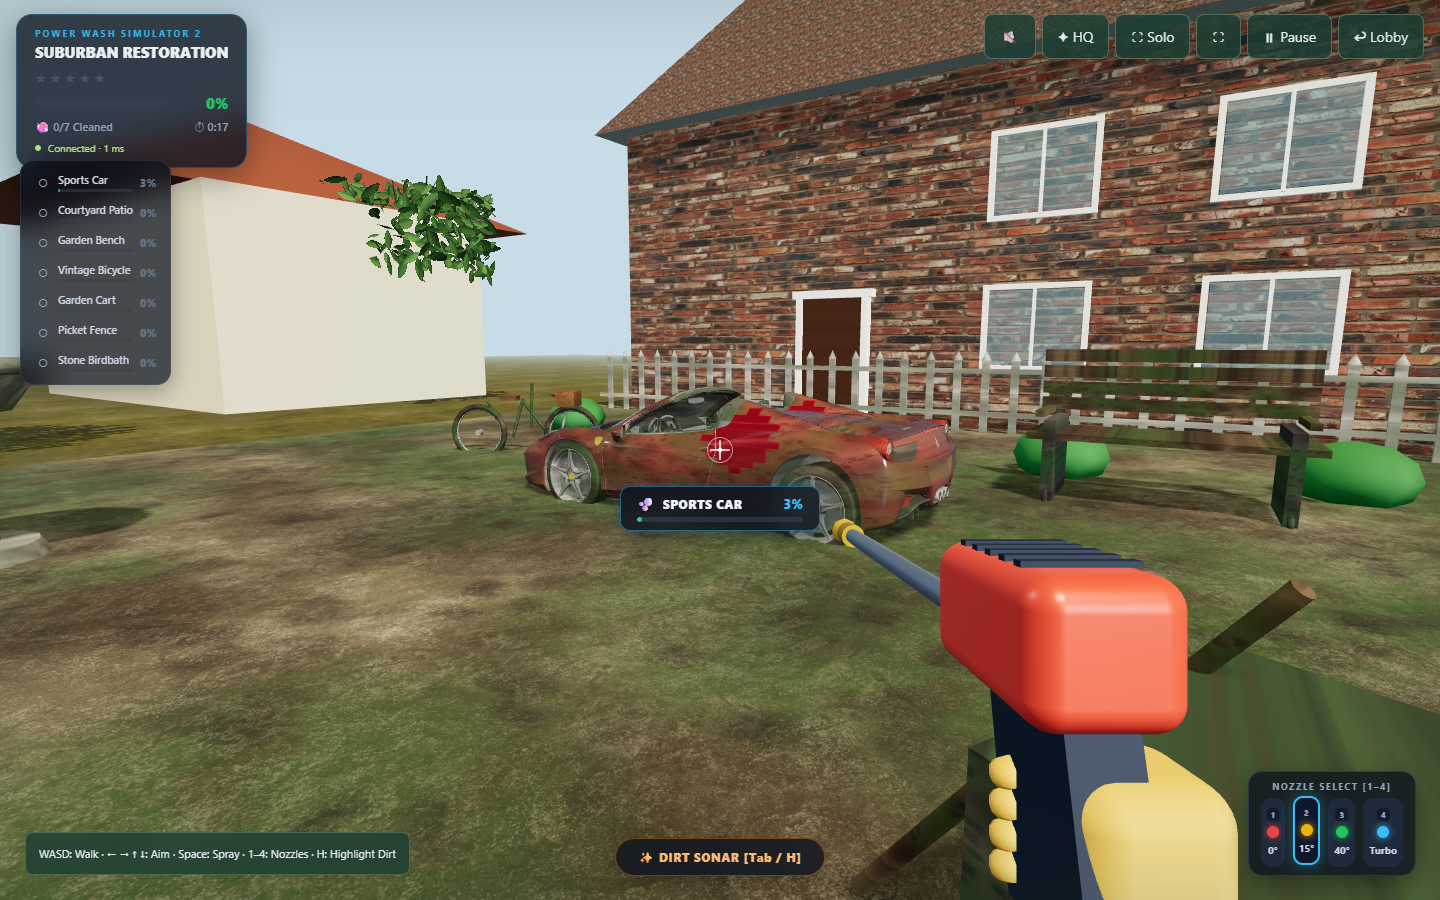
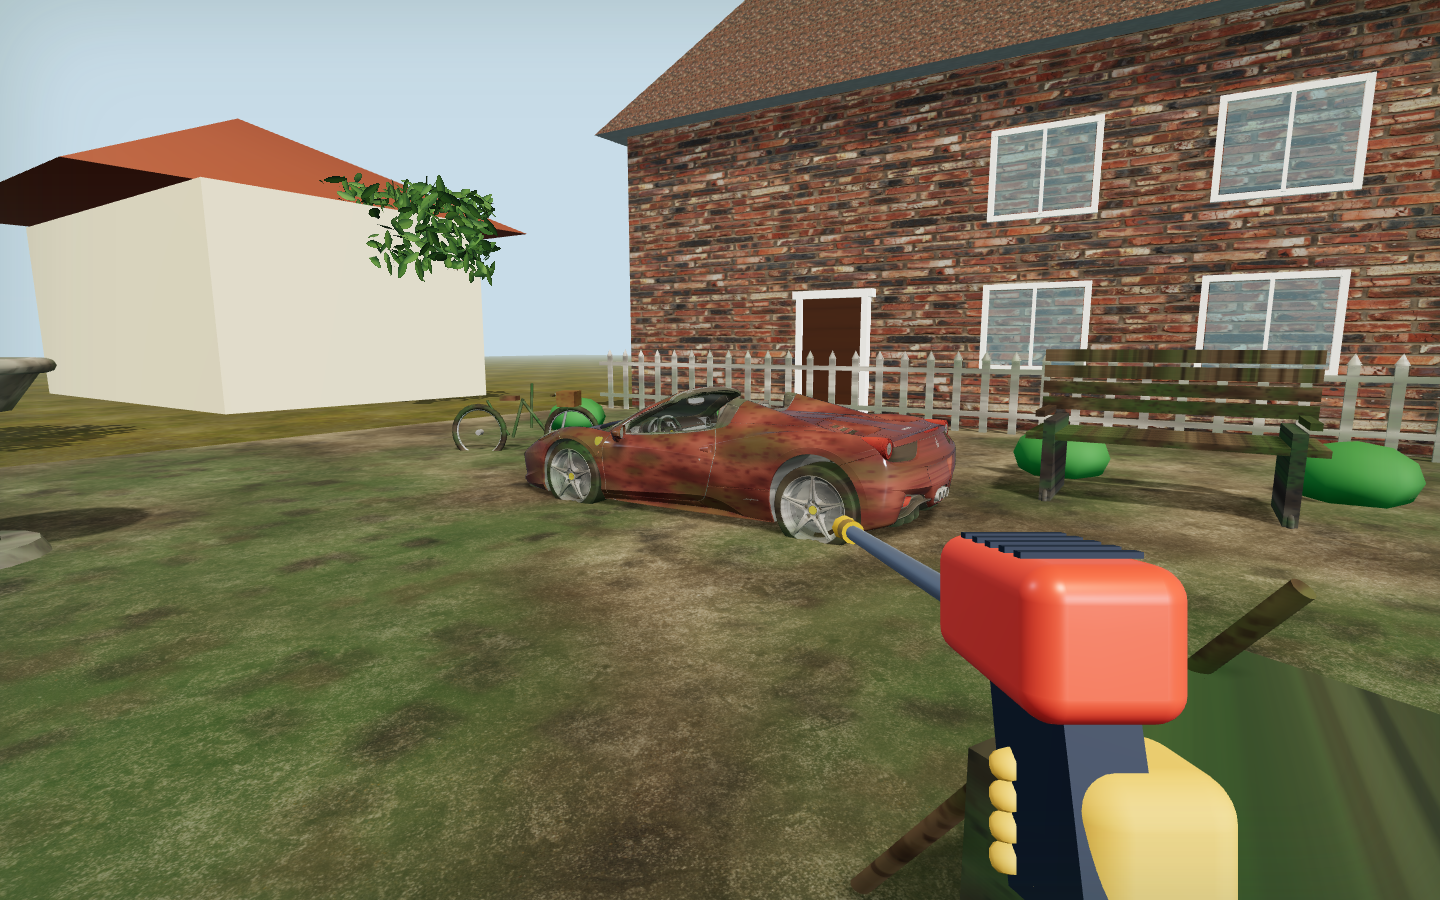
feat: simplify Rushroom home and game HUD

diff --git a/src/client/main.tsx b/src/client/main.tsx
@@ -3,7 +3,6 @@ import React, { useEffect, useRef, useState } from 'react';
 import { createRoot } from 'react-dom/client';
 import QRCode from 'qrcode';
 import { useNetwork } from './network';
-import { HeroKart, HeroWasher } from './visuals';
 import { games } from '../shared/registry';
 import { COLORS, type Input, neutral, type RoomState } from '../shared/types';
 import { ranking, LAPS } from '../shared/simulation';
@@ -18,10 +17,8 @@ import { WashController } from './washController';
 import { KartTouchControls } from './kartTouchControls';
 import './style.css';
 
-const WorldPreview = React.lazy(() => import('./scene').then(m => ({ default: m.WorldPreview })));
 const GameScene = React.lazy(() => import('./scene').then(m => ({ default: m.GameScene })));
 const PowerWashScene = React.lazy(() => import('./washScene').then(m => ({ default: m.PowerWashScene })));
-const PowerWashPreview = React.lazy(() => import('./washScene').then(m => ({ default: m.PowerWashPreview })));
 
 type PlayArrangement = 'this_device' | 'tv_display' | 'phone_controller';
 
@@ -72,6 +69,7 @@ function App() {
   // Split-screen state (Independent per display)
   const [localSplit, setLocalSplit] = useState(initialPage === 'screen');
   const [showSplitMenu, setShowSplitMenu] = useState(false);
+  const [showGameMenu, setShowGameMenu] = useState(false);
   const [requestOtherSplit, setRequestOtherSplit] = useState(false);
   const [activeToast, setActiveToast] = useState<string | null>(null);
   const [targetedObject, setTargetedObject] = useState<{ name: string; percent: number } | null>(null);
@@ -477,16 +475,13 @@ function App() {
         <main className="home">
           <section className="hero">
             <div className="hero-copy">
-              <span className="eyebrow">
-                <i /> BROWSER MULTIPLAYER PLAYGROUND
-              </span>
+              <span className="eyebrow">YOUR FRIENDS. YOUR ROOM.</span>
               <h1>
-                Power Wash.<br />
-                Race. <em>Together.</em>
+                Play together.<br />
+                <em>Anywhere.</em>
               </h1>
               <p>
-                Turn any TV, laptop or phone into a shared arena.<br />
-                Grab your friends. Play in person or from different homes.
+                One phone or a whole living room. Pick a game, share your room code, and bring your friends.
               </p>
 
               <div className="actions">
@@ -498,21 +493,12 @@ function App() {
                 </button>
               </div>
 
-              <div className="hero-meta">
-                <span>◉ Original 3D Environments</span>
-                <span>◎ No App or Account Required</span>
-                <span>⌁ TV + Phone Controllers</span>
-              </div>
+              <p className="hero-note">No downloads. Choose your screen and controls when you join.</p>
             </div>
 
             <div className="hero-art">
-              <span className="art-chip chip-top">NEW 3D CO-OP GAME</span>
-              <React.Suspense fallback={<HeroWasher />}>
-                <PowerWashPreview />
-              </React.Suspense>
-              <span className="art-chip chip-bottom">
-                <b>02</b> POWER WASH SIMULATOR 2 <span>↗</span>
-              </span>
+              <img className="featured-game-image" src="/wash-world.png" alt="Power Wash gameplay in a sunny garden with a sports car" />
+              <div className="featured-game-caption"><span>CO-OP CLEANING</span><b>Power Wash Simulator 2</b></div>
             </div>
           </section>
 
@@ -520,11 +506,10 @@ function App() {
           <section className="library">
             <div className="section-heading">
               <div>
-                <span className="eyebrow">THE ROSTER</span>
-                <h2>Good friends. Great games.</h2>
+                <h2>Pick your next game.</h2>
               </div>
               <button className="text-button" onClick={() => setPage('library')}>
-                Explore the library →
+                All games →
               </button>
             </div>
 
@@ -532,20 +517,14 @@ function App() {
               {/* Game 1: Power Wash Simulator 2 */}
               <article className="game-card">
                 <div className="card-art">
-                  <div className="wash-card-art">
-                    <span className="wash-art-water-jet">💦</span>
-                    <span className="wash-art-clean-tag">100% ORIGINAL ART</span>
-                  </div>
-                  <span className="game-tag" style={{ color: '#38bdf8' }}>
-                    PLAYABLE NOW
-                  </span>
+                  <img className="world-card-art" src="/wash-world.png" alt="Pressure washing a sports car in the garden" loading="lazy" />
                   <span className="players-tag">1–4 players</span>
                 </div>
                 <div className="card-copy">
                   <div>
                     <h3>Power Wash Simulator 2</h3>
                     <p>
-                      Co-op cleaning simulation. Grab your pressure washer and team up to restore a dirty garden courtyard to pristine glory.
+                      Slow down. Spray the dirt away. Clean the garden together.
                     </p>
                   </div>
                   <button
@@ -568,14 +547,13 @@ function App() {
                     src="/sunburst-world.png"
                     alt="Original 3D miniature garden circuit"
                   />
-                  <span className="game-tag">PLAYABLE NOW</span>
                   <span className="players-tag">1–8 players</span>
                 </div>
                 <div className="card-copy">
                   <div>
                     <h3>Kart Rush Arena</h3>
                     <p>
-                      Big corners. Tiny karts. Brilliant chaos. Race your friends around Sunburst Circuit.
+                      Race your friends around the twists of Sunburst Circuit.
                     </p>
                   </div>
                   <button
@@ -594,27 +572,27 @@ function App() {
 
           {/* 3 PLAY ARRANGEMENTS SECTION */}
           <section className="steps">
-            <span className="eyebrow">THE THREE DEVICE ARRANGEMENTS</span>
+            <h2>Your setup. Your choice.</h2>
             <div className="arrangement-grid">
               <div className="arrangement-card">
-                <span className="arrangement-icon">📱</span>
-                <b>Arrangement A — Play on this device</b>
+                <span className="setup-number">01</span>
+                <b>Just your phone or PC</b>
                 <span>
-                  Mobile touch controls or PC keyboard/mouse. Your view and controls live on the same phone, tablet or monitor.
+                  Your game and controls on one device.
                 </span>
               </div>
               <div className="arrangement-card">
-                <span className="arrangement-icon">📺</span>
-                <b>Arrangement B — Shared TV + Phone Controllers</b>
+                <span className="setup-number">02</span>
+                <b>One TV. Everyone plays.</b>
                 <span>
-                  The TV renders 2 to 4 split viewports. Each player scans a QR code and holds their phone as a tactile gamepad.
+                  Share the big screen. Use your phones as controllers.
                 </span>
               </div>
               <div className="arrangement-card">
-                <span className="arrangement-icon">🌐</span>
-                <b>Arrangement C — Different Homes, Flexible Devices</b>
+                <span className="setup-number">03</span>
+                <b>Different homes. Same room.</b>
                 <span>
-                  One friend uses TV + phone at their house, while another joins on mobile from across the city.
+                  Join with a room code. Each person chooses their own view.
                 </span>
               </div>
             </div>
@@ -631,17 +609,14 @@ function App() {
             {games.map(g => (
               <article className="library-entry" key={g.id}>
                 {g.id === 'power-wash' ? (
-                  <div className="wash-card-art" style={{ height: 160, borderRadius: 12 }}>
-                    <span style={{ fontSize: 50 }}>💦</span>
-                  </div>
+                  <img src="/wash-world.png" alt="Power Wash gameplay" />
                 ) : (
                   <img src={g.thumbnail} alt="" />
                 )}
                 <h2>{g.name}</h2>
                 <p>{g.description}</p>
                 <small>
-                  {g.minPlayers}–{g.maxPlayers} players ·{' '}
-                  {g.available ? 'Playable Now' : 'In Development'}
+                  {g.minPlayers}–{g.maxPlayers} players
                 </small>
                 <button
                   className="primary"
@@ -1038,13 +1013,7 @@ function App() {
               {/* Top HUD */}
               <div className="race-top">
                 <div className="wash-title-card">
-                  <span className="eyebrow">POWER WASH SIMULATOR 2</span>
-                  <h2>SUBURBAN RESTORATION</h2>
-                  <div className="job-stars">
-                    {[20, 40, 60, 80, 98].map((t, idx) => (
-                      <span key={idx} className={`star ${(room.wash?.jobPercent || 0) >= t ? 'filled' : ''}`}>★</span>
-                    ))}
-                  </div>
+                  <h2>Garden cleanup</h2>
                   <div className="progress-container">
                     <div className="progress-bar-bg">
                       <div
@@ -1055,21 +1024,13 @@ function App() {
                     <span className="progress-text">{room.wash.jobPercent}%</span>
                   </div>
                   <div className="wash-job-sub">
-                    <span>🧼 {CLEANABLE_OBJECTS.filter(o => room.wash?.objects[o.id]?.completed).length}/{CLEANABLE_OBJECTS.length} Cleaned</span>
-                    <span>⏱ {Math.floor(room.wash.time / 60)}:{String(Math.floor(room.wash.time) % 60).padStart(2, '0')}</span>
+                    <span>{CLEANABLE_OBJECTS.filter(o => room.wash?.objects[o.id]?.completed).length}/{CLEANABLE_OBJECTS.length} objects clean</span>
                   </div>
-                  {statusPill}
                 </div>
 
                 <div className="race-tools">
-                  <button onClick={toggleSound}>
-                    {sound ? '🔊' : '🔇'}
-                  </button>
-                  <button onClick={() => setQuality(quality === 'high' ? 'low' : 'high')}>
-                    {quality === 'high' ? '✦ HQ' : '◇ LQ'}
-                  </button>
-                  <button onClick={() => setShowSplitMenu(!showSplitMenu)}>
-                    ⛶ {localSplit ? 'Split' : 'Solo'}
+                  <button aria-expanded={showSplitMenu} onClick={() => {setShowSplitMenu(!showSplitMenu);setShowGameMenu(false);}}>
+                    Split view
                   </button>
                   <button aria-label="Fullscreen" onClick={fullscreen}>
                     ⛶
@@ -1079,9 +1040,19 @@ function App() {
                       {room.wash.phase === 'paused' ? '▶ Resume' : '⏸ Pause'}
                     </button>
                   )}
-                  {isHost && <button onClick={() => send({ type: 'lobby' })}>↩ Lobby</button>}
+                  <button aria-expanded={showGameMenu} aria-controls="wash-game-menu" onClick={() => {setShowGameMenu(!showGameMenu);setShowSplitMenu(false);}}>Menu</button>
                 </div>
               </div>
+
+              {showGameMenu && <aside className="wash-game-menu" id="wash-game-menu" aria-label="Game menu">
+                <div className="game-menu-heading"><b>Game menu</b><button aria-label="Close game menu" onClick={() => setShowGameMenu(false)}>×</button></div>
+                <button onClick={toggleSound}>Sound <b>{sound ? 'On' : 'Off'}</b></button>
+                <button onClick={() => setQuality(quality === 'high' ? 'low' : 'high')}>Graphics <b>{quality === 'high' ? 'High' : 'Low'}</b></button>
+                <small>{status}{status === 'Connected' ? ` · ${latency} ms` : ''}</small>
+                <details><summary>Objects to clean</summary><div className="menu-object-list">{CLEANABLE_OBJECTS.map(def => <div key={def.id}><span>{def.name}</span><b>{room.wash?.objects[def.id]?.percent || 0}%</b></div>)}</div></details>
+                {session?.playerId && !('ontouchstart' in window) && <details><summary>Keyboard controls</summary><p>WASD to walk · Arrow keys or drag to aim · Space to spray · 1–4 for nozzles · H to highlight dirt.</p></details>}
+                {isHost && <button onClick={() => {setShowGameMenu(false);send({type:'lobby'});}}>Return to lobby →</button>}
+              </aside>}
 
               {/* Independent Split Menu Dropdown */}
               {showSplitMenu && (
@@ -1117,7 +1088,6 @@ function App() {
               {targetedObject && targetedObject.name && (
                 <div className="wash-target-card">
                   <div className="target-card-top">
-                    <span className="target-icon">🫧</span>
                     <span className="target-name">{targetedObject.name}</span>
                     <span className="target-percent">{targetedObject.percent}%</span>
                   </div>
@@ -1130,34 +1100,9 @@ function App() {
                 </div>
               )}
 
-              {/* Left HUD: Objects checklist with mini progress bars */}
-              <div className="wash-hud" style={{ top: 160 }}>
-                <div className="objects-hud-list">
-                  {CLEANABLE_OBJECTS.map(def => {
-                    const st = room.wash?.objects[def.id];
-                    const pct = st?.percent || 0;
-                    return (
-                      <div
-                        key={def.id}
-                        className={`object-item ${st?.completed ? 'completed' : ''}`}
-                      >
-                        <span className="obj-icon">{st?.completed ? '✓' : '○'}</span>
-                        <div className="object-item-info">
-                          <span>{def.name}</span>
-                          <div className="obj-mini-progress">
-                            <div className="obj-mini-fill" style={{ width: `${pct}%` }} />
-                          </div>
-                        </div>
-                        <b>{pct}%</b>
-                      </div>
-                    );
-                  })}
-                </div>
-              </div>
-
               {/* Bottom-right: Interactive Nozzle Dock */}
               {session?.playerId && <div className="nozzle-dock">
-                <span className="nozzle-dock-title">NOZZLE SELECT [1–4]</span>
+                <span className="nozzle-dock-title">Nozzles</span>
                 <div className="nozzle-dock-buttons">
                   {NOZZLES.map((n, idx) => {
                     const isActive = washControls.current.nozzle === idx;
@@ -1196,7 +1141,7 @@ function App() {
                   }, 2500);
                 }}
               >
-                ✨ DIRT SONAR [Tab / H]
+                Highlight dirt
               </button>}
 
               {/* Mobile on-screen touch overlay for Arrangement A on phones */}
@@ -1232,7 +1177,7 @@ function App() {
                           }, 2500);
                         }}
                       >
-                        ✨ Highlight Dirt
+                        Highlight dirt
                       </button>
                       <button
                         type="button"
@@ -1258,11 +1203,6 @@ function App() {
               )}
 
               {/* PC Desktop Keyboard guide */}
-              {session?.playerId && !('ontouchstart' in window) && (
-                <div className="keyboard-hint">
-                  WASD: Walk · ← → ↑ ↓: Aim · Space: Spray · 1–4: Nozzles · H: Highlight Dirt
-                </div>
-              )}
 
               {room.wash.phase === 'countdown' && (
                 <div className="countdown">
@@ -1467,7 +1407,6 @@ function App() {
       {!room && (
         <footer>
           <span>rushroom — made for playing together.</span>
-          <span>Original games. Instant co-op & rivalries.</span>
           <a href="/models/CREDITS.md" target="_blank" rel="noreferrer">3D asset credits</a>
         </footer>
       )}

diff --git a/src/client/style.css b/src/client/style.css
@@ -930,6 +930,57 @@
 }
 
 /* Responsive Overrides */
+/* Calm landing page: real gameplay, clear actions and less decorative chrome. */
+.home {max-width:1320px;padding:0 5%}
+.home .hero {grid-template-columns:.9fr 1.1fr;gap:64px;min-height:520px;padding:64px 0 56px}
+.home .hero h1 {font-size:clamp(48px,5.4vw,76px);letter-spacing:-3px;line-height:1.06;margin:22px 0}
+.home .hero-copy>p {max-width:400px;font-size:17px;line-height:1.7}
+.home .hero-copy>.hero-note {font-size:12px;color:#9eaea7;margin:24px 0 0;max-width:360px}
+.home .hero-art {display:block;min-height:0;aspect-ratio:1.23;border-radius:24px;overflow:hidden;background:#23362d;border:1px solid #52645155;box-shadow:0 25px 75px #0003}
+.featured-game-image {width:100%;height:100%;object-fit:cover;display:block}
+.featured-game-caption {position:absolute;inset:auto 0 0;padding:60px 28px 26px;background:linear-gradient(transparent,#0b1813ee);display:grid;gap:8px}
+.featured-game-caption span {font-size:10px;letter-spacing:2px;color:#e9c982;font-weight:750}
+.featured-game-caption b {font-size:23px;letter-spacing:-.6px}
+.home .section-heading {margin:0 0 24px}
+.home .section-heading h2,.home .steps h2 {font-size:28px;margin:0;letter-spacing:-.8px}
+.home .card-art {height:230px;background:#21342b}
+.home .card-art:before {display:none}
+.home .world-card-art {width:100%;height:100%;object-fit:cover;position:static;transform:none}
+.home .game-card {background:#1e3028;border-color:#49634f66;border-radius:18px}
+.home .card-copy {padding:24px;min-height:130px}
+.home .card-copy p {font-size:14px;line-height:1.6;color:#aabbb0}
+.home .card-copy button {background:#e9c982;color:#15261e;width:48px;height:48px;flex-shrink:0}
+.home .players-tag {background:#10251ee6;letter-spacing:.2px;font-size:11px;bottom:14px;right:14px}
+.home .steps {padding:64px 0;background:none;border:0}
+.home .arrangement-grid {margin-top:25px;gap:24px}
+.home .arrangement-card {padding:24px;background:transparent;border:1px solid #4c63504d;border-radius:16px;gap:12px}
+.home .arrangement-card b {position:static;font-size:17px;display:block;margin:0;color:#edf1f6}
+.home .arrangement-card span {position:static;display:block}
+.home .arrangement-card>span:last-child {font-size:14px;line-height:1.6;color:#aabbb0}
+.setup-number {font-size:12px;color:#e9c982;font-weight:800;letter-spacing:1px}
+.race-screen:has(.wash-canvas) .wash-title-card {padding:14px 18px;min-width:200px;max-width:230px;background:#11241bcc;border:1px solid #d4e6d333;box-shadow:none}
+.race-screen:has(.wash-canvas) .wash-title-card h2 {font-size:15px;letter-spacing:0;margin:0 0 10px}
+.race-screen:has(.wash-canvas) .wash-job-sub {margin-top:7px;font-size:11px}
+.wash-game-menu {position:absolute;z-index:15;top:85px;right:20px;width:300px;max-width:calc(100% - 24px);max-height:calc(100% - 110px);overflow:auto;background:#14251ef5;border:1px solid #6c846b;border-radius:16px;padding:18px;box-shadow:0 16px 50px #0006}
+.game-menu-heading {display:flex;align-items:center;justify-content:space-between;margin-bottom:14px}
+.game-menu-heading button {font-size:24px;width:40px;height:40px}
+.wash-game-menu>button {display:flex;align-items:center;justify-content:space-between;min-height:48px;width:100%;border-top:1px solid #50644877;text-align:left;font-size:14px}
+.wash-game-menu>small {display:block;color:#a6b6a9;font-size:11px;margin:10px 0}
+.wash-game-menu details {border-top:1px solid #50644877;padding:14px 0;font-size:14px}
+.wash-game-menu summary {cursor:pointer;min-height:24px}
+.wash-game-menu details p {font-size:13px;line-height:1.7;margin-bottom:0}
+.menu-object-list {display:grid;gap:12px;margin-top:16px;font-size:12px}
+.menu-object-list>div {display:flex;justify-content:space-between;gap:12px}
+@media(max-width:850px){.home .hero {gap:30px;padding:40px 0;grid-template-columns:1fr 1fr}.home .hero h1 {font-size:50px}.home .hero-art {aspect-ratio:.9}.home .actions {flex-wrap:wrap}.home .card-copy {padding:20px}}
+@media(max-width:600px){
+ .home {padding:0 20px}.home .hero {grid-template-columns:1fr;gap:28px;padding:36px 0 40px;min-height:0}
+ .home .hero h1 {font-size:52px;margin:18px 0;letter-spacing:-2px}.home .hero-copy>p {font-size:15px;margin:18px 0 24px}
+ .home .hero-copy>.hero-note {margin-top:18px;font-size:11px}.home .actions {flex-wrap:nowrap;gap:10px}.home .actions button {padding:15px 18px;font-size:14px}.home .primary span {margin-left:8px}
+ .home .hero-art {aspect-ratio:1.45;border-radius:18px}.featured-game-caption {padding:45px 20px 20px}.featured-game-caption b {font-size:19px}
+ .home .game-grid {grid-template-columns:1fr;gap:20px}.home .section-heading h2,.home .steps h2 {font-size:24px}.home .section-heading {gap:12px}.home .text-button {white-space:nowrap}
+ .home .card-art {height:210px}.home .card-copy {min-height:112px}.home .card-copy h3 {font-size:19px}.home .card-copy p {font-size:13px}.home .steps {padding:40px 0}.home .arrangement-grid {gap:12px}
+ .wash-game-menu {top:80px;right:12px;width:280px}.race-screen:has(.wash-canvas) .wash-title-card {min-width:150px}
+}
 .device-role-picker {border:0;padding:0;margin:24px 0;min-width:0}
 .device-role-picker legend {font-size:18px;font-weight:700;margin-bottom:14px}
 .device-role-options {display:grid;gap:12px}

diff --git a/docs/AGENT-HANDOFF.md b/docs/AGENT-HANDOFF.md
@@ -81,3 +81,11 @@ The main public URL is `https://rushroom-games.vercel.app/`. `index.html` keeps 
 - Added `scripts/public-connection-test.mjs`: real Chrome against the public URL verifies compiled WebSocket destination, room creation, phone join, readiness, game start, reload/resume with the same player, controller-only rendering and browser errors. Run with `TEST_SERVER_URL` set to the expected backend.
 - Final public Chrome test **passed** against fresh backend `sb-2cf1zfkzsyid.vercel.run`: actual public WSS connection, room create, phone join, ready, Power Wash game start, reload/resume same player, no phone game canvas and zero browser errors. This verifies transport and start/resume; it is not a full cleaning-job completion or physical-phone performance test.
 
+## Homepage and HUD cleanup — October 12
+
+- Replaced the busy home hero with clear Create/Join actions, actual gameplay photography, short game cards and concise explanations of the three device setups. Removed duplicate promo chips, emoji artwork, unsupported original-art claims and always-visible playable-now labels. Fixed inherited positioning that made setup-card headings overlap. Kept asset attribution accessible in the footer.
+- Power Wash now shows compact job progress and the current target. Removed rating stars, the permanent object checklist and keyboard guide. A labelled Menu provides sound, graphics, connection details, an expandable object list, keyboard help and host lobby navigation. Split view and consent remain independent; requesting other screens stays unchecked by default. Large phone movement/spray controls remain available.
+- `scripts/ui-cleanup-test.mjs` checks desktop/390px home layout, game selection, required host role selection, actual local gameplay HUD, menu controls, object progress, split consent default and return to lobby. Captured a fresh HUD-free gameplay preview. Updated the visual test to use the new Menu navigation and capture clean previews.
+- Verification: build passed, 45/45 existing tests passed, local UI-cleanup browser check passed, local single-phone host movement passed. Physical phone GPU testing was not performed. Production frontend deployment and public static checks are recorded after publication below; these do not prove public multiplayer availability.
+- The existing sandbox backend has expired (HTTP 410). No new temporary backend or GitHub Actions runner was created. Persistent/on-demand multiplayer hosting remains pending.
+
